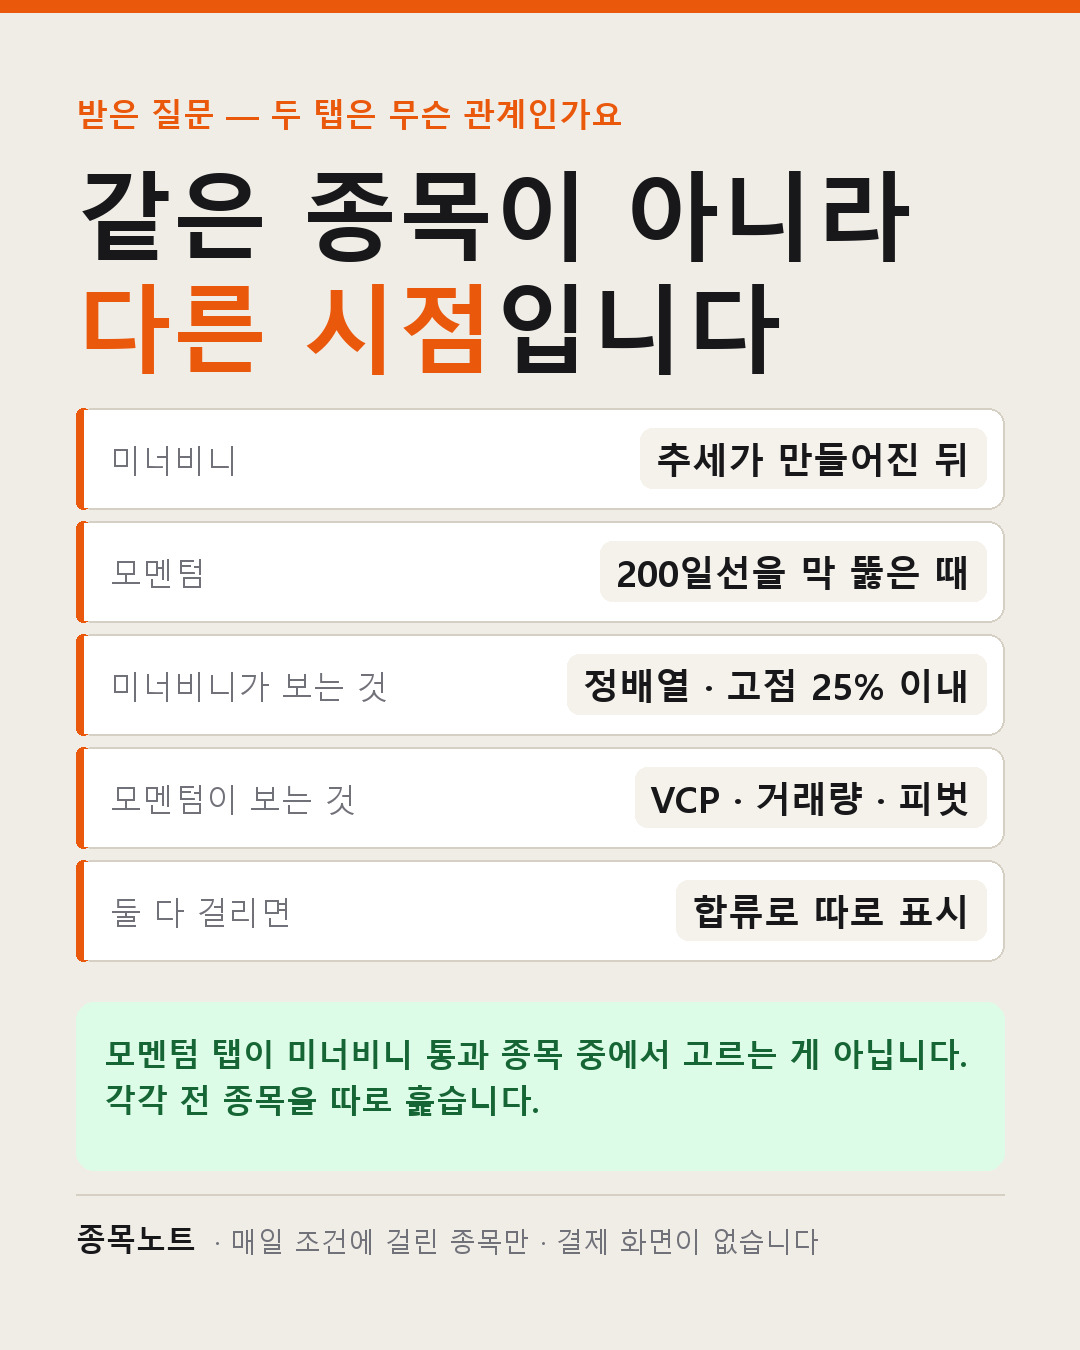
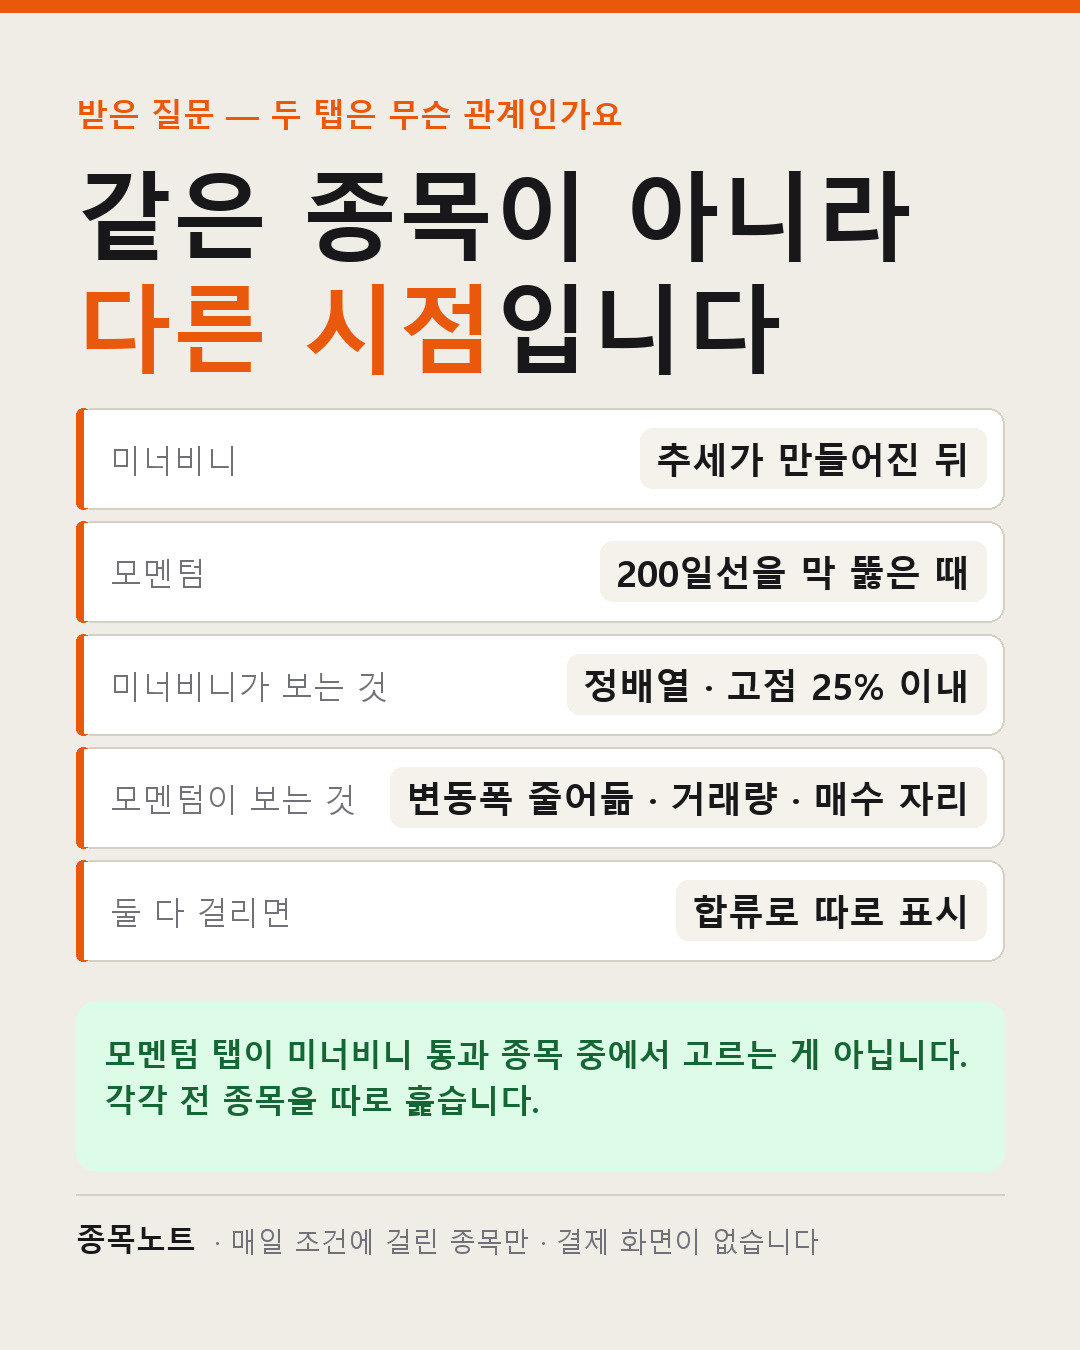
fix: 카드와 본문에 남은 영어 약자를 화면 라벨에 맞춘다
사이트에서 영어를 걷어낸 뒤 따라오지 못한 곳들을 맞춘다.

promo-what / promo-list 의 MA21·MA50 을 21일선·50일선으로 바꾼다.
손절 안내 글은 본문이 이미 '21일선을 깨면'이라고 쓰는데 같이 나가는
카드에는 MA21 이라고 적혀 있어서 둘이 어긋나 있었다.

minervini-vs-momentum 의 'VCP · 거래량 · 피벗'을 화면과 같은
'변동폭 줄어듦 · 거래량 · 매수 자리'로 바꾼다.

미너비니 조건 글의 '분기 EPS'도 '분기 순이익'으로 바꾼다.

Claude-Session: https://claude.ai/code/session_01Bs2hnehKA4YmAiekijyLHC

Changed region(s): [[0.6111, 0.56, 0.8861, 0.6222], [0.3667, 0.56, 0.5806, 0.6222]]

diff --git a/scripts/make_promo_cards.py b/scripts/make_promo_cards.py
@@ -33,7 +33,7 @@ CARDS = {
             {"label": "미너비니 조건", "value": "8개 중 7개 통과"},
             {"label": "52주 고점 대비", "value": "-4.2%"},
             {"label": "손절선", "value": "매수가 -7%"},
-            {"label": "트레일링", "value": "+20%부터 MA21"},
+            {"label": "트레일링", "value": "+20%부터 21일선"},
             {"label": "목표가 알림", "value": "텔레그램"},
         ],
         "highlight": "종목 추천이 아닙니다. 조건에 걸렸는지만 계산해서 보여줍니다.",
@@ -49,7 +49,7 @@ CARDS = {
             {"title": "52주 고점 대비 지금 위치",
              "note": "얼마나 눌린 자리인지 바로 보임"},
             {"title": "손절선과 트레일링 기준",
-             "note": "+20%부터 MA21, +50%부터 MA50"},
+             "note": "+20%부터 21일선, +50%부터 50일선"},
             {"title": "목표가 도달 텔레그램 알림",
              "note": "차트를 안 보고 있어도 옵니다"},
             {"title": "매매일지와 복기 메모",
@@ -118,7 +118,7 @@ CARDS = {
             {"label": "미너비니", "value": "추세가 만들어진 뒤"},
             {"label": "모멘텀", "value": "200일선을 막 뚫은 때"},
             {"label": "미너비니가 보는 것", "value": "정배열 · 고점 25% 이내"},
-            {"label": "모멘텀이 보는 것", "value": "VCP · 거래량 · 피벗"},
+            {"label": "모멘텀이 보는 것", "value": "변동폭 줄어듦 · 거래량 · 매수 자리"},
             {"label": "둘 다 걸리면", "value": "합류로 따로 표시"},
         ],
         "highlight": "모멘텀 탭이 미너비니 통과 종목 중에서 고르는 게 아닙니다. 각각 전 종목을 따로 훑습니다.",
